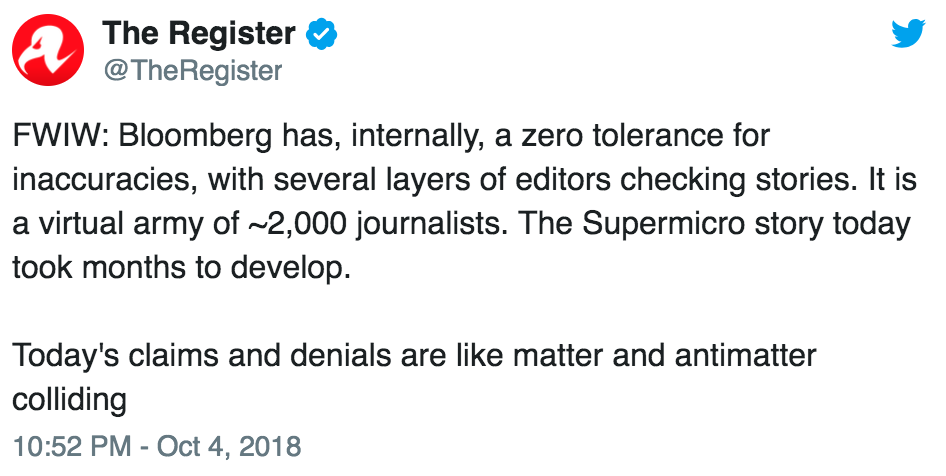
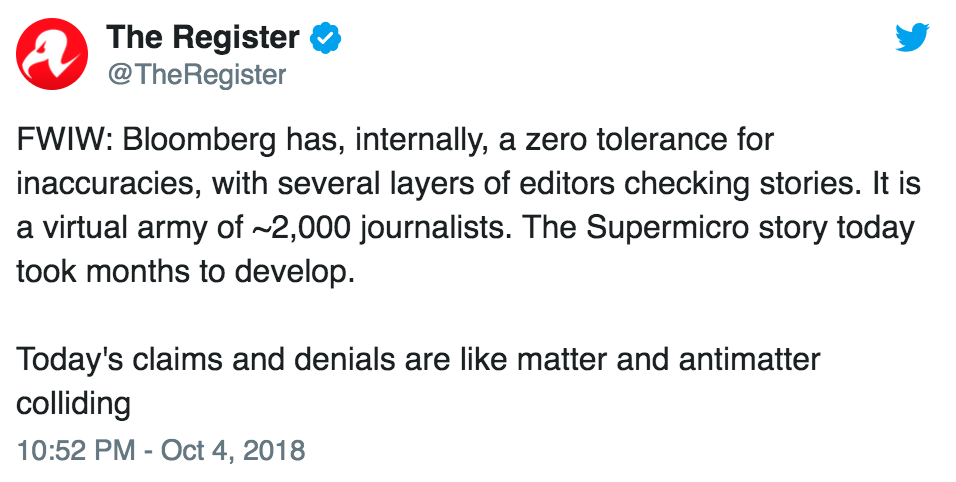
Tweaked The Register tweet image, more work on story

diff --git a/drafts/_2018-10-X-Email-update-.md b/drafts/_2018-10-X-Email-update-.md
@@ -7,9 +7,15 @@ Good morning.
 
 What a week. It's becoming difficult to make these _weekly_ summaries, because there's just so much going on in the infosec world these days.
 
+### Dutch intelligence breaks up GRU cyber operation
+
+In any normal week... https://twitter.com/gordoncorera/status/1047788913690140673
+
 ### Bloomberg reports that Supermicro servers had hardware trojans
 
-Bloomberg broke [this story](https://www.bloomberg.com/news/features/2018-10-04/the-big-hack-how-china-used-a-tiny-chip-to-infiltrate-america-s-top-companies) yesterday, and it's an incredible read. Citing 17 sources including six "current and former senior national security officials", Bloomberg's story states that in 2015 it was discovered that server motherboards manufactured by Supermicro had hardware trojans installed during manufacture:
+Bloomberg broke [this story](https://www.bloomberg.com/news/features/2018-10-04/the-big-hack-how-china-used-a-tiny-chip-to-infiltrate-america-s-top-companies) yesterday, and it's an incredible read. 
+
+Citing 17 sources including six "current and former senior national security officials", the story states that server motherboards manufactured by Supermicro have been shipped with hardware trojans installed, and had been discovered in datacentres owned by Amazon and Apple:
 
 >Nested on the servers’ motherboards, the testers found a tiny microchip, not much bigger than a grain of rice, that wasn’t part of the boards’ original design. Amazon reported the discovery to U.S. authorities, sending a shudder through the intelligence community. Elemental’s servers could be found in Department of Defense data centers, the CIA’s drone operations, and the onboard networks of Navy warships. And Elemental was just one of hundreds of Supermicro customers.
 >
@@ -17,9 +23,13 @@ Bloomberg broke [this story](https://www.bloomberg.com/news/features/2018-10-04/
 >
 >This attack was something graver than the software-based incidents the world has grown accustomed to seeing. Hardware hacks are more difficult to pull off and potentially more devastating, promising the kind of long-term, stealth access that spy agencies are willing to invest millions of dollars and many years to get.
 
-The story would be enough of a blockbuster on its own, but making things more interesting is the blanket denials 
+The story would be enough of a bombshell on its own, but making things more interesting is the vehement denials of the story's accuracy by both [Apple](https://www.apple.com/newsroom/2018/10/what-businessweek-got-wrong-about-apple/) and [Amazon](https://aws.amazon.com/blogs/security/setting-the-record-straight-on-bloomberg-businessweeks-erroneous-article/).
+
+As a few people [pointed out](https://twitter.com/SwiftOnSecurity/status/1047946250035875841), this sort of direct refutation of a story isn't what you'd expect to see from SEC-regulated companies unless they're very sure that they'll be proven right by a subsequent investigation. It's a weird situation to be in.
 
 <a href="https://twitter.com/TheRegister/status/1047952621762297857"><img src="/images/supermicro-register-antimatter.png" alt="Tweet by The Register" class="tweet"/></a>
+
+Until we get more information (or someone finds a compromised Supermicro motherboard and pulls it apart), the grugq has a good writeup of the story [here](https://medium.com/@thegrugq/supply-chain-security-speculation-b7b6357a5d05), and Patrick Gray released a Risky Business [feature interview](https://risky.biz/RB516_feature/) on the Bloomberg story and hardware attacks generally. Both are well worth the time.
 
 ### Own the BMC, own the server
 
@@ -45,7 +55,12 @@ Back in 2014, it was made public that Supermicro's BMC [would send you the plain
 
 Earlier this year, a group of researchers discovered that the login for HP's BMC software could be bypassed by simply [entering a 29 'A' characters in a connection header](https://www.bleepingcomputer.com/news/security/you-can-bypass-authentication-on-hpe-ilo4-servers-with-29-a-characters/).
 
-A group of researchers presented on exactly this topic earlier this year: [_Backdooring your server through its BMC: the HPE iLO4 case_]()
+A group of researchers presented on exactly this topic earlier this year: [_Backdooring your server through its BMC: the HPE iLO4 case_](https://airbus-seclab.github.io/ilo/SSTIC2018-Slides-EN-Backdooring_your_server_through_its_BMC_the_HPE_iLO4_case-perigaud-gazet-czarny.pdf)
+
+### Hardware hacking: how to compromise a BMC bootloader
+
+Thread: (and unrolled [here](https://securinghardware.com/articles/hardware-implants/)
+https://twitter.com/securelyfitz/status/1047942844738981889
 
 
 ### Facebook follow-up: third-party website SSO implementations
